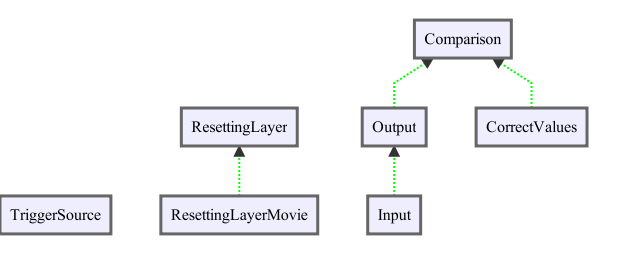
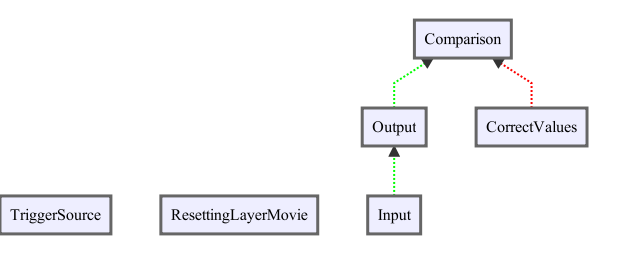
Fixes resetStateOnTrigger.  ResetStateOnTriggerTest now works.

Changed region(s): [[0.2727, 0.4134, 0.4848, 0.6339], [0.8182, 0.2756, 0.8485, 0.3307], [0.7879, 0.248, 0.8182, 0.2756]]

diff --git a/PVSystemTests/ResetStateOnTriggerTest/src/main.cpp b/PVSystemTests/ResetStateOnTriggerTest/src/main.cpp
@@ -6,41 +6,33 @@
 
 #include <columns/buildandrun.hpp>
 
-#define MAIN_USES_CUSTOMGROUPS
-
-#ifdef MAIN_USES_CUSTOMGROUPS
-#include <io/ParamGroupHandler.hpp>
-// CustomGroupHandler is for adding objects not supported by CoreParamGroupHandler().
-class CustomGroupHandler: public ParamGroupHandler {
-public:
-   CustomGroupHandler() {}
-
-   virtual ~CustomGroupHandler() {}
-
-   virtual ParamGroupType getGroupType(char const * keyword) {
-      ParamGroupType result = UnrecognizedGroupType;
-      //
-      // This routine should compare keyword to the list of keywords handled by CustomGroupHandler and return one of
-      // LayerGroupType, ConnectionGroupType, ProbeGroupType, ColProbeGroupType, WeightInitializerGroupType, or WeightNormalizerGroupType
-      // according to the keyword, or UnrecognizedGroupType if this ParamGroupHandler object does not know the keyword.
-      //
-      return result;
-   }
-   // A CustomGroupHandler group should override createLayer, createConnection, etc., as appropriate, if there are custom objects
-   // corresponding to that group type.
-
-}; /* class CustomGroupHandler */
-#endif // MAIN_USES_CUSTOMGROUPS
+int checkForNonzero(HyPerCol * hc, int argc, char ** argv);
 
 int main(int argc, char * argv[]) {
 
    int status;
-#ifdef MAIN_USES_CUSTOMGROUPS
-   ParamGroupHandler * customGroupHandler = new CustomGroupHandler();
-   status = buildandrun(argc, argv, NULL, NULL, &customGroupHandler, 1/*numGroupHandlers*/);
-   delete customGroupHandler;
-#else
-   status = buildandrun(argc, argv);
-#endif // MAIN_USES_CUSTOMGROUPS
+   status = buildandrun(argc, argv, NULL, checkForNonzero, NULL, 0);
    return status==PV_SUCCESS ? EXIT_SUCCESS : EXIT_FAILURE;
+}
+
+int checkForNonzero(HyPerCol * hc, int argc, char ** argv) {
+   // A customexit hook to verify that the comparison layer is zero
+   // because of a nonzero on GsynExc cancelling the same value on
+   // GSynInh, and not because some error caused Comparison to
+   // return zero even if Output and CorrectValues were different.
+   // A RequireAllZeroActivityProbe checks whether the activity is
+   // zero everywhere, so this function doesn't have to.
+
+   BaseLayer * basecomparisonlayer = hc->getLayerFromName("Comparison");
+   HyPerLayer * comparisonlayer = dynamic_cast<HyPerLayer *>(basecomparisonlayer);
+   assert(comparisonlayer!=NULL);
+   assert(comparisonlayer->getNumChannels()==2);
+
+   pvdata_t * exc = comparisonlayer->getChannel(CHANNEL_EXC);
+   pvdata_t * inh = comparisonlayer->getChannel(CHANNEL_INH);
+   int N = comparisonlayer->getNumNeurons();
+   for (int n=0; n<N; n++) {
+      assert(exc[n]!=0 && exc[n]==inh[n]);
+   }
+   return PV_SUCCESS;
 }

diff --git a/pv-core/src/layers/HyPerLayer.cpp b/pv-core/src/layers/HyPerLayer.cpp
@@ -1677,6 +1677,7 @@ int HyPerLayer::updateStateWrapper(double timef, double dt){
    if(needUpdate(timef, parent->getDeltaTime())){
       if (needReset(timef, dt)) {
          status = resetStateOnTrigger();
+         updateNextTriggerTime();
       }
       status = callUpdateState(timef, dt);
       lastUpdateTime = parent->simulationTime();
@@ -2007,7 +2008,7 @@ int HyPerLayer::publish(InterColComm* comm, double time)
 
    bool mirroring = useMirrorBCs();
    mirroring = mirroring ?
-         (getLastUpdateTime() >= getParent()->simulationTime() || needReset(time, parent->getDeltaTime())) :
+         (getLastUpdateTime() >= getParent()->simulationTime()) :
          false;
    if ( mirroring) {
       for (int borderId = 1; borderId < NUM_NEIGHBORHOOD; borderId++){
